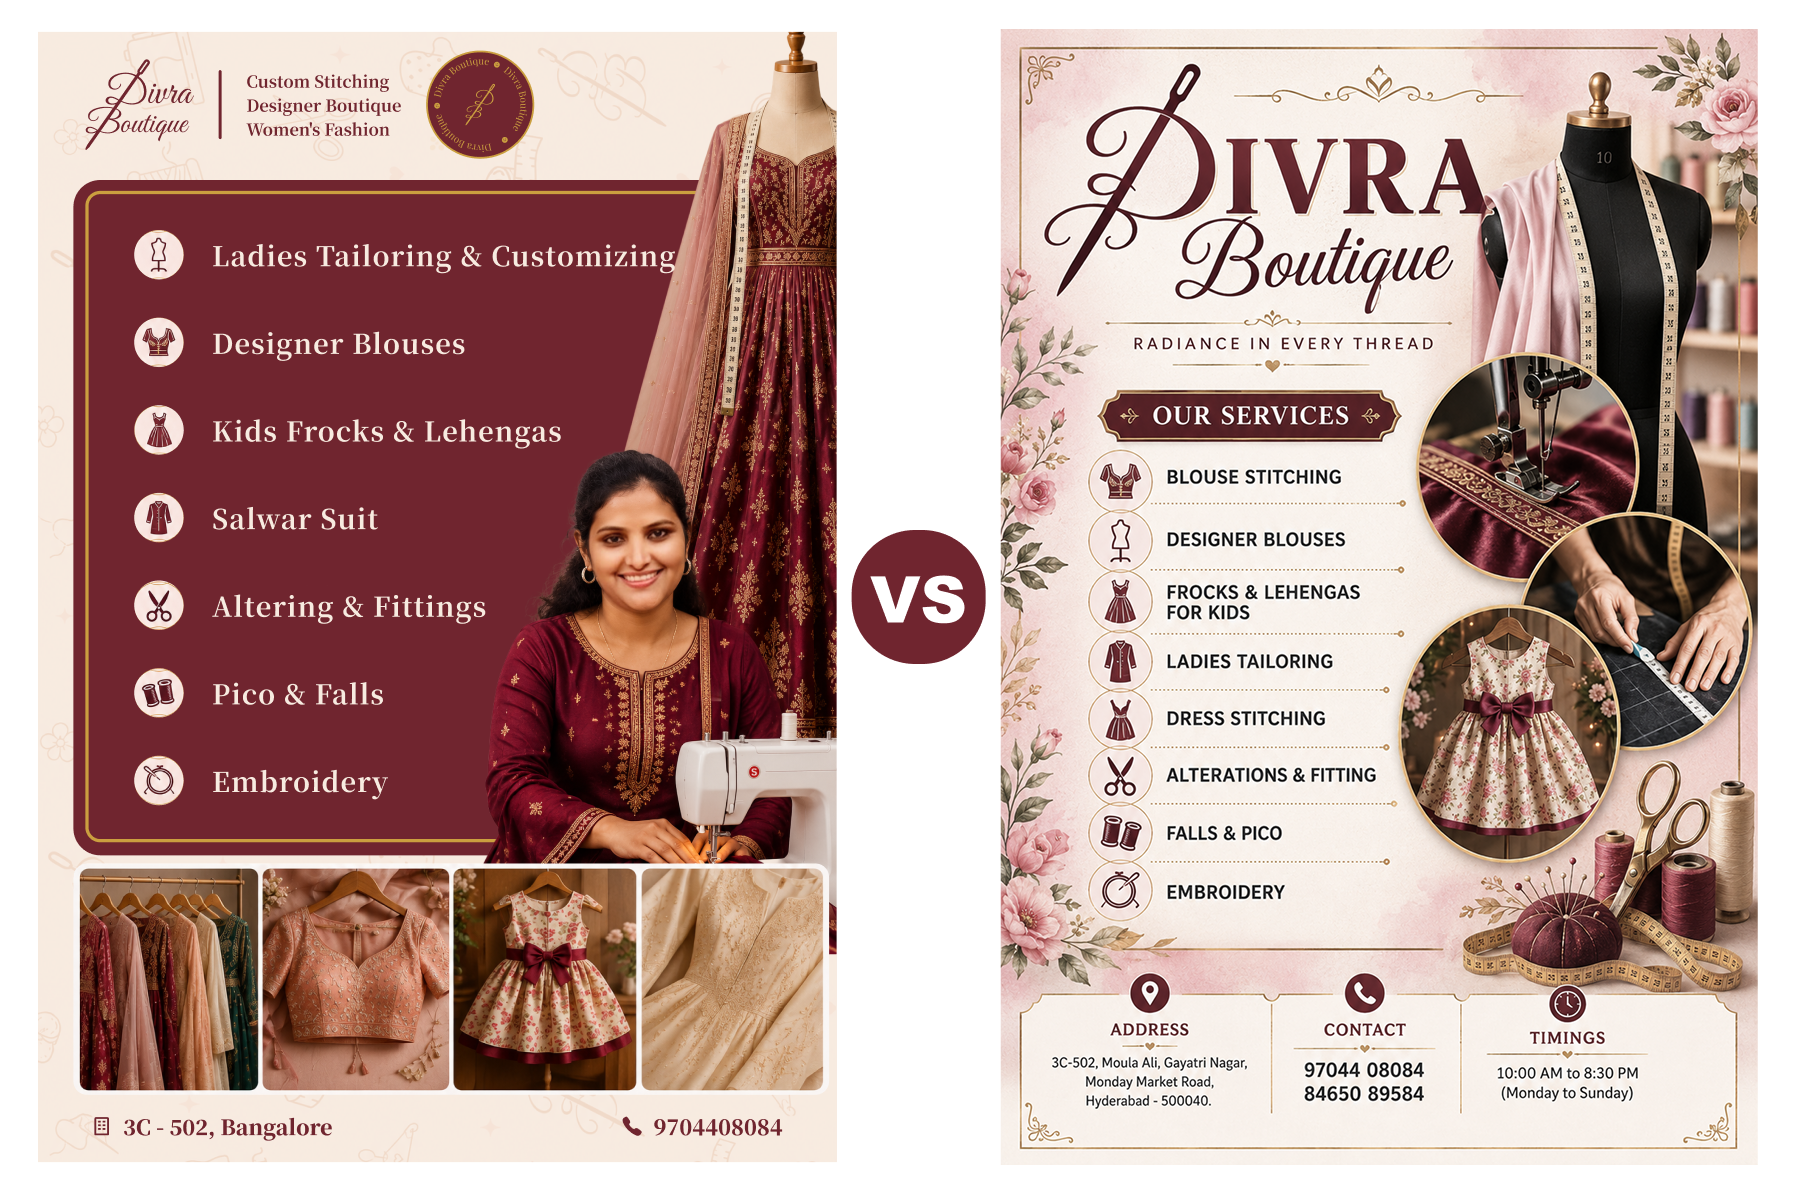
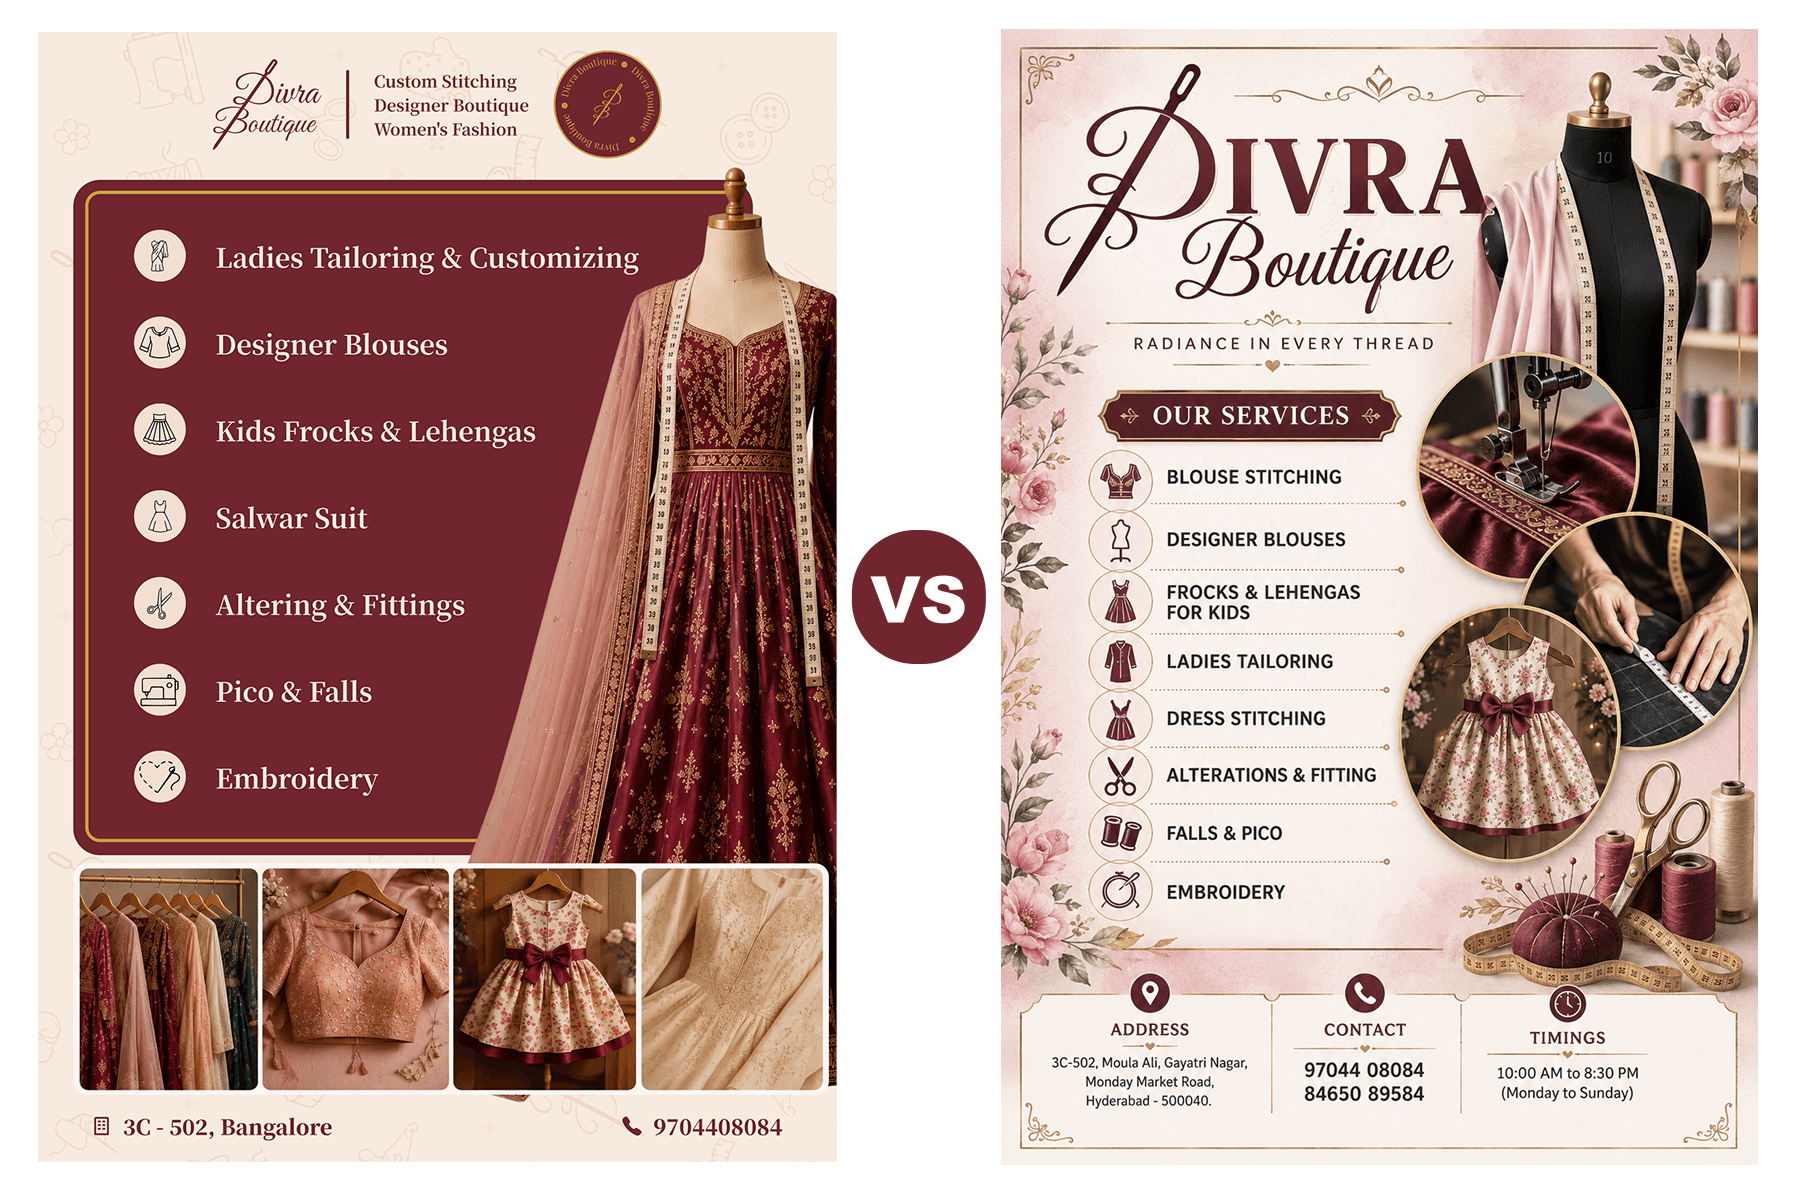
Fixes

diff --git a/src/styles/_nav.scss b/src/styles/_nav.scss
@@ -195,16 +195,16 @@
       border-radius: 0;
       transition: all 0.35s;
       overflow: hidden;
+      padding: 200px 32px 200px;
+      align-items: flex-start;
+      justify-content: flex-end;
+      padding: 25px;
+      gap: 25px;
 
       &.open {
         height: 100vh;
-        padding: 200px 32px 200px;
-        align-items: flex-start;
-        justify-content: flex-end;
 
-        @include media(phone) {
-          padding: 32px;
-        }
+
       }
 
       li {

diff --git a/content/blog/turning-ai-slop-into-design.md b/content/blog/turning-ai-slop-into-design.md
@@ -43,7 +43,8 @@ Before I even opened ChatGPT for the Divra Boutique project, two things were alr
 
 Only after this, AI came into the picture. And I was not asking it to create a brand. I was asking it to extend a brand that already had a backbone.
 
-That flip is everything. If you ask AI for an identity, you will get slop with no centre. If you give AI an identity and ask it to explore applications, you will get hundred usable directions in twenty minutes.  
+That flip is everything. If you ask AI for an identity, you will get slop with no centre. If you give AI an identity and ask it to explore applications, you will get hundred usable directions in twenty minutes.
+
 **![][image3]**  
 ---
 
@@ -67,7 +68,7 @@ If you see the AI board and my final board as thumbnails, they look same only. B
 - **Grid rebuilt.** AI spacing is by feel, not by system. Everything was re-laid on a proper grid with consistent gutters.  
 - **Type reset.** Generated text is just decorative noise. You cannot ship it. All typography replaced with real typefaces, real sizes, real scale.  
 - **Meaning added.** I put in the etymology of the name — *Div*, meaning to shine, radiant — and built the tagline from that: *Radiance in Every Thread*. I also added a construction diagram showing how the needle, the thread and the letters come together into one mark. AI cannot do this. It does not know why the brand is called what it is called.  
-- **Icon set.** \[TK — did you draw these in Figma or trace the AI output? If AI gave raster and you rebuilt them as vectors, that is the best "AI failed me" story in this project. Put it here.\]
+- **Icon set.** ChatGPT gave me the icons, but as pixels. At small size on a flyer they were breaking, and line weights were not matching between one icon and the next. So I traced all of them in Figma as vectors, and fixed the weights and corner radius to one standard. Now the same icon works on a flyer, on a signboard, as an Instagram highlight cover, or as a favicon. This is exactly the difference — AI gave me the shape, but shape at one fixed size is not an asset. Vector is the asset.
 
 ![][image5]
 
@@ -77,7 +78,7 @@ If you see the AI board and my final board as thumbnails, they look same only. B
 
 Easiest way to see the difference is to keep two flyers side by side.
 
-> **![][image6]**
+**![][image6]**
 
 One is decorated. Every corner is filled. Floral frames, props scattered, script taglines on top and bottom. Honestly it is pretty. But the service list, which is the only thing the customer actually needs to read, is fighting with all that ornament.
 
